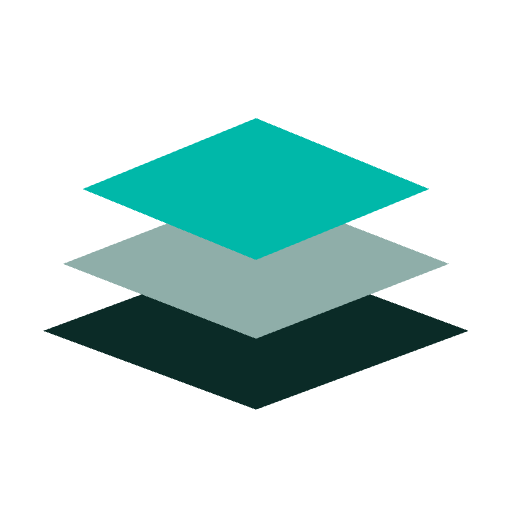
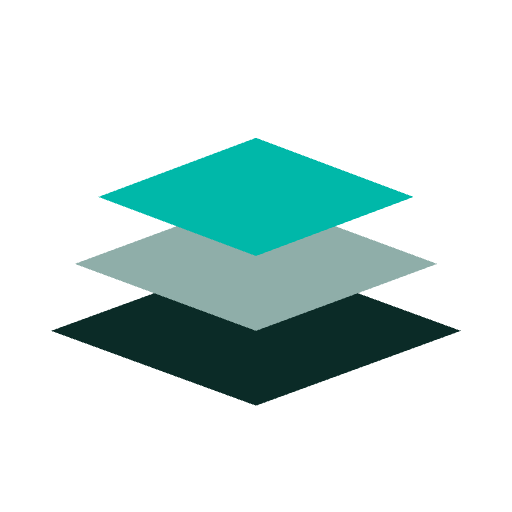
refactor: simplify brand mark — drop connector lines and circuit nodes
Adopts the logo-2a/ asset set: cleaner three-plate stack icon without the
PCB-trace lines/nodes motif, tighter wordmark kerning (letter-spacing -2).
Applied everywhere the mark appears:

- templates/layout.js: inline header SVG updated to the new polygon shape,
  still themed via var(--logo-bot/-mid/-top) and var(--text) so day/night
  switching keeps working with zero CSS changes.
- jntustack-favicon.svg / jntustack-lockup.svg: redrawn to match.
- jntustack-lockup-dark.svg / jntustack-mark.svg: new assets (dark-background
  lockup variant, icon-only mark) — not yet referenced anywhere, added for
  future use.
- favicon.ico / icon-512.png / apple-touch-icon-180.png: regenerated from
  the new mark.

diff --git a/templates/layout.js b/templates/layout.js
@@ -45,7 +45,7 @@ ${jsonLd ? `<script type="application/ld+json">${JSON.stringify(jsonLd)}</script
 <body>
 ${stamp ? stampMarkup(stamp) : ''}
 <header class="site-header">
-  <a class="brand" href="/" aria-label="JNTUStack home"><svg class="brand-logo" viewBox="0 0 900 260" width="118" height="34" role="img" aria-hidden="true" xmlns="http://www.w3.org/2000/svg"><g transform="translate(130,130)"><g style="stroke:var(--logo-mid)" stroke-width="3" opacity="0.55"><line x1="-108" y1="-6" x2="-70" y2="-6"/><line x1="-108" y1="20" x2="-64" y2="20"/><line x1="108" y1="-6" x2="70" y2="-6"/><line x1="108" y1="20" x2="64" y2="20"/></g><polygon points="0,42 92,20 0,-2 -92,20" style="fill:var(--logo-bot);stroke:var(--bar)" stroke-width="4"/><polygon points="0,16 84,-4 0,-24 -84,-4" style="fill:var(--logo-mid);stroke:var(--bar)" stroke-width="4"/><polygon points="0,-10 76,-28 0,-46 -76,-28" style="fill:var(--logo-top);stroke:var(--bar)" stroke-width="4"/><g style="fill:var(--logo-mid)"><circle cx="-108" cy="-6" r="7"/><circle cx="-108" cy="20" r="7"/><circle cx="108" cy="-6" r="7"/><circle cx="108" cy="20" r="7"/></g></g><text x="290" y="150" font-family="'IBM Plex Sans','Helvetica Neue',Arial,sans-serif" font-weight="700" font-size="88" style="fill:var(--text)">JNTUStack</text></svg></a>
+  <a class="brand" href="/" aria-label="JNTUStack home"><svg class="brand-logo" viewBox="0 0 900 260" width="118" height="34" role="img" aria-hidden="true" xmlns="http://www.w3.org/2000/svg"><g transform="translate(130,146)"><polygon points="0,60 104,22 0,-16 -104,22" style="fill:var(--logo-bot)"/><polygon points="0,22 92,-12 0,-46 -92,-12" style="fill:var(--logo-mid)"/><polygon points="0,-16 80,-46 0,-76 -80,-46" style="fill:var(--logo-top)"/></g><text x="268" y="164" font-family="'IBM Plex Sans','Helvetica Neue',Arial,sans-serif" font-weight="700" font-size="92" letter-spacing="-2" style="fill:var(--text)">JNTUStack</text></svg></a>
   ${renderSearchBar()}
   <nav class="top-nav" aria-label="Main navigation">
     <div class="nav-branches">